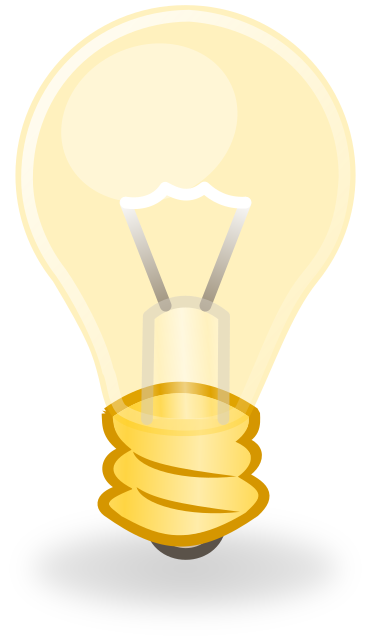
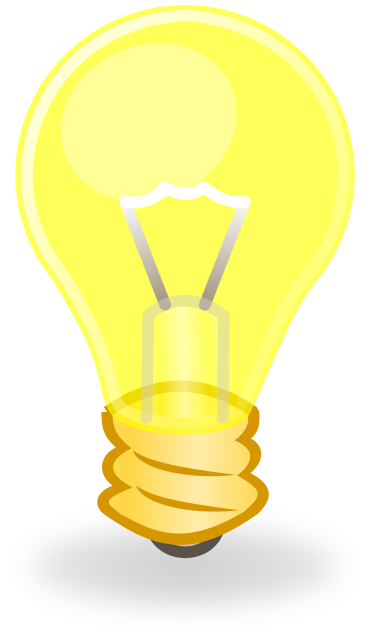
IHM: Ajout de log + revue ampoule allumée
git-svn-id: https://svn.abls-habitat.fr/repo/Watchdog@5363 9f22af27-4b39-4cfe-9f85-4bed9fef4693

diff --git a/trunk/Watchdogd/IHM/js/index.js b/trunk/Watchdogd/IHM/js/index.js
@@ -202,7 +202,7 @@
     visuels = Synoptique.visuels.filter( function (item) { return(item.tech_id==etat.tech_id && item.acronyme==etat.acronyme); });
     if (visuels.length!=1) return;
     visuel = visuels[0];
-    console.log("Changer_etat_visuel " + etat.tech_id + ":" + etat.acronyme);
+    console.log("Changer_etat_visuel " + etat.tech_id + ":" + etat.acronyme + " -> mode ="+etat.mode +" couleur="+etat.color );
     console.debug(visuel);
 /*-------------------------------------------------- Visuel si pas de comm ---------------------------------------------------*/
          if (etat.color=="darkgreen")
@@ -222,7 +222,6 @@
     else if (visuel.mode_affichage=="2_modes_1_action")
      { if (etat.mode>0) { target = "/img/"+visuel.forme+"_"+etat.mode+"."+visuel.extension; }
                   else  { target = "/img/"+visuel.forme+"."+visuel.extension; }
-       console.log("2modes1action");
        Changer_img_src ( idimage, target );
        $("#"+idvisuel).css("border", "medium none none" );
        $("#"+idheader).css("background-color", "transparent" );
@@ -233,7 +232,9 @@
                 else $("#"+idimage).removeClass("wtd-cligno");
     $("#"+idvisuel).css("border-radius", "30px" );
   }
-/********************************************* Appelé au chargement de la page ************************************************/
+/******************************************************************************************************************************/
+/* Création d'un visuel sur la page de travail                                                                                */
+/******************************************************************************************************************************/
  function Creer_visuel ( Response )
   { var id = "wtd-visu-"+Response.tech_id+"-"+Response.acronyme;
     var contenu;
